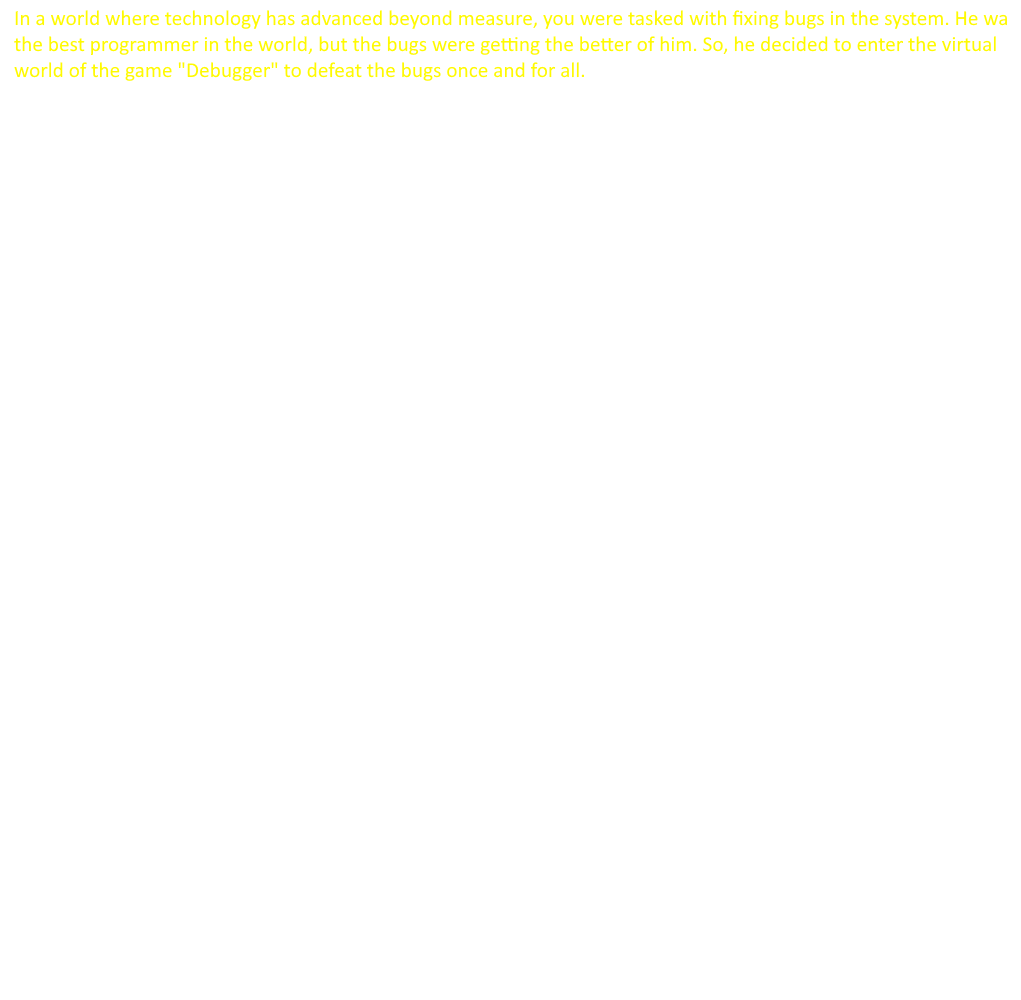
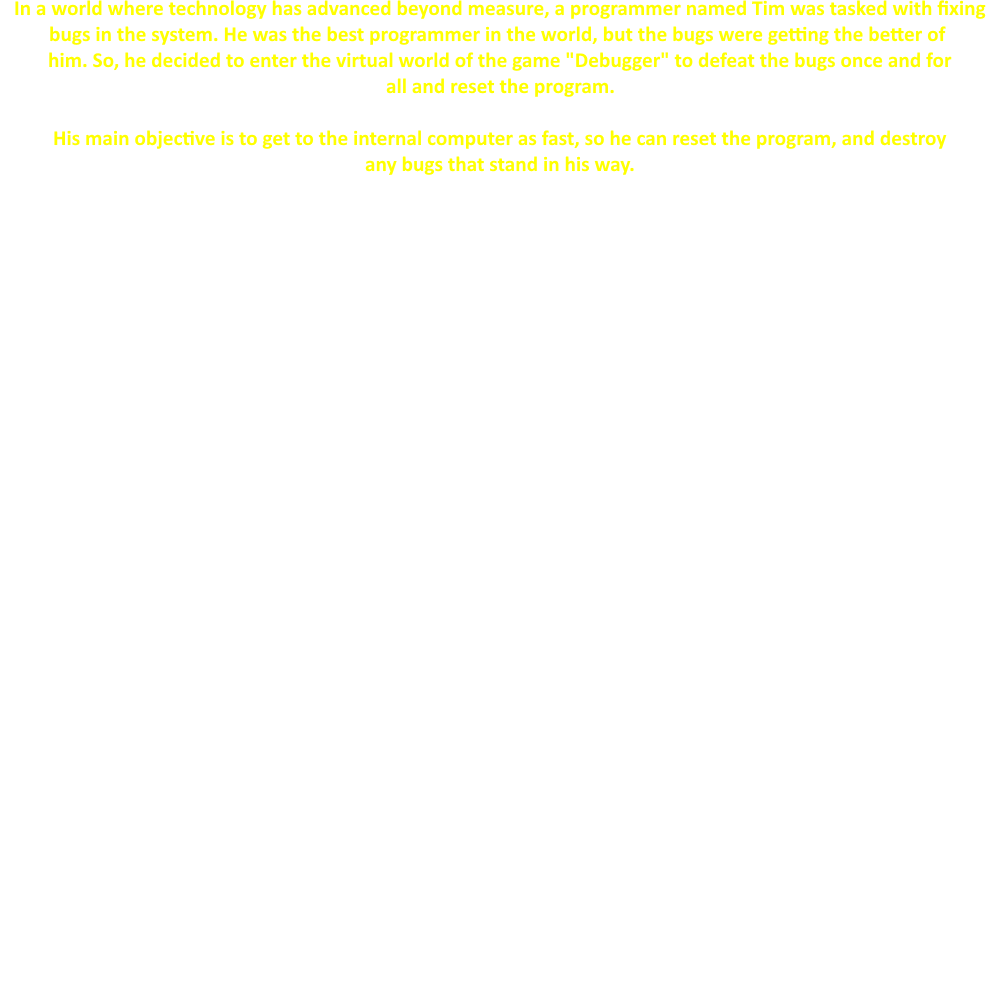
Game

Changed region(s): [[0.0, 0.0, 0.991, 0.093], [0.0619, 0.124, 0.96, 0.186]]

diff --git a/extras.py b/extras.py
@@ -4,10 +4,10 @@ from settingMenu import Button
 from lvlSelect import Block
 
 class Text(pygame.sprite.Sprite):
-    def __init__(self, x, y, w, h, settings):
+    def __init__(self, x, y, settings, txt):
         super().__init__()
         self.settings = settings
-        self.image = settings.license
+        self.image = txt
         self.rect = self.image.get_rect(topleft=(x, y))
 class About:
     def __init__(self, surface, settings):
@@ -21,13 +21,16 @@ class About:
     def init_menu(self):
         self.groupButtons = pygame.sprite.Group()
         self.ui = pygame.sprite.Group()
+        self.text = pygame.sprite.Group()
         self.groupButtons.add(Button(self.settings.screen_w / 2 - 25, 650, "settings", "main_menu", self.settings))
         self.ui.add(Block(0, 0, self.settings.screen_w, self.settings.screen_h / 5, self.settings))
+        self.text.add(Text(90, 179, self.settings, self.settings.license))  # 255,255,0
 
     def draw(self):
         self.state = "about"
         self.settings.background.draw(self.display_surface)
         self.groupButtons.update(self)
+        self.text.draw(self.display_surface)
         self.ui.draw(self.display_surface)
         self.settings.logo.draw(self.display_surface)
         self.groupButtons.draw(self.display_surface)
@@ -50,7 +53,7 @@ class License:
         self.text = pygame.sprite.Group()
         self.groupButtons.add(Button(self.settings.screen_w / 2 - 25, 650, "main", "main_menu", self.settings))
         self.ui.add(Block(0, 0, self.settings.screen_w, self.settings.screen_h / 5, self.settings))
-        self.text.add(Text(90, 179, self.settings.screen_w, self.settings.screen_h / 5, self.settings)) #255,255,0
+        self.text.add(Text(90, 179, self.settings, self.settings.license)) #255,255,0
 
     def draw(self):
         self.state = "license"
